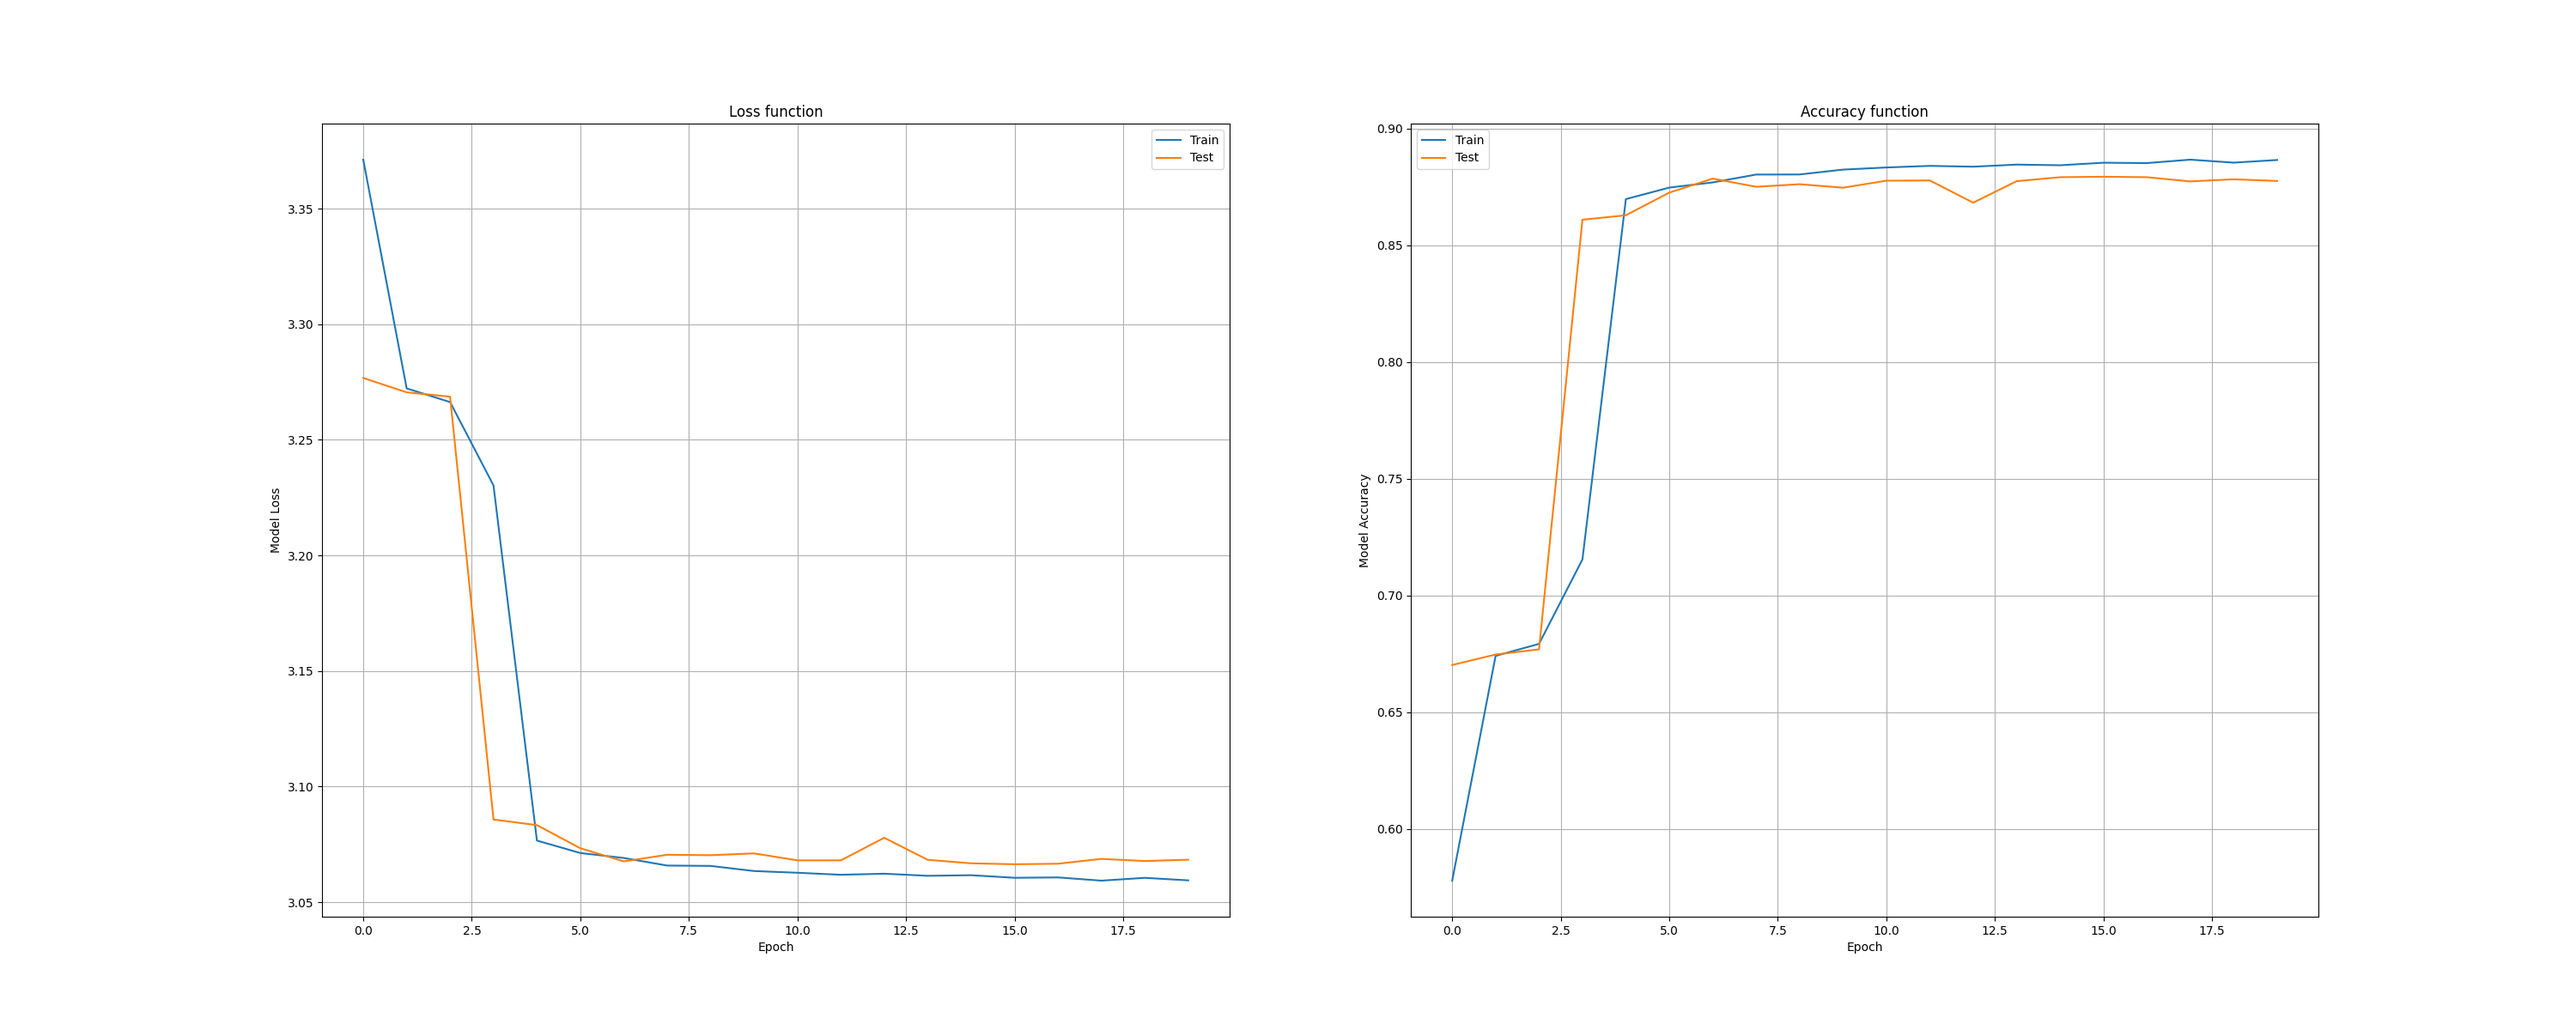
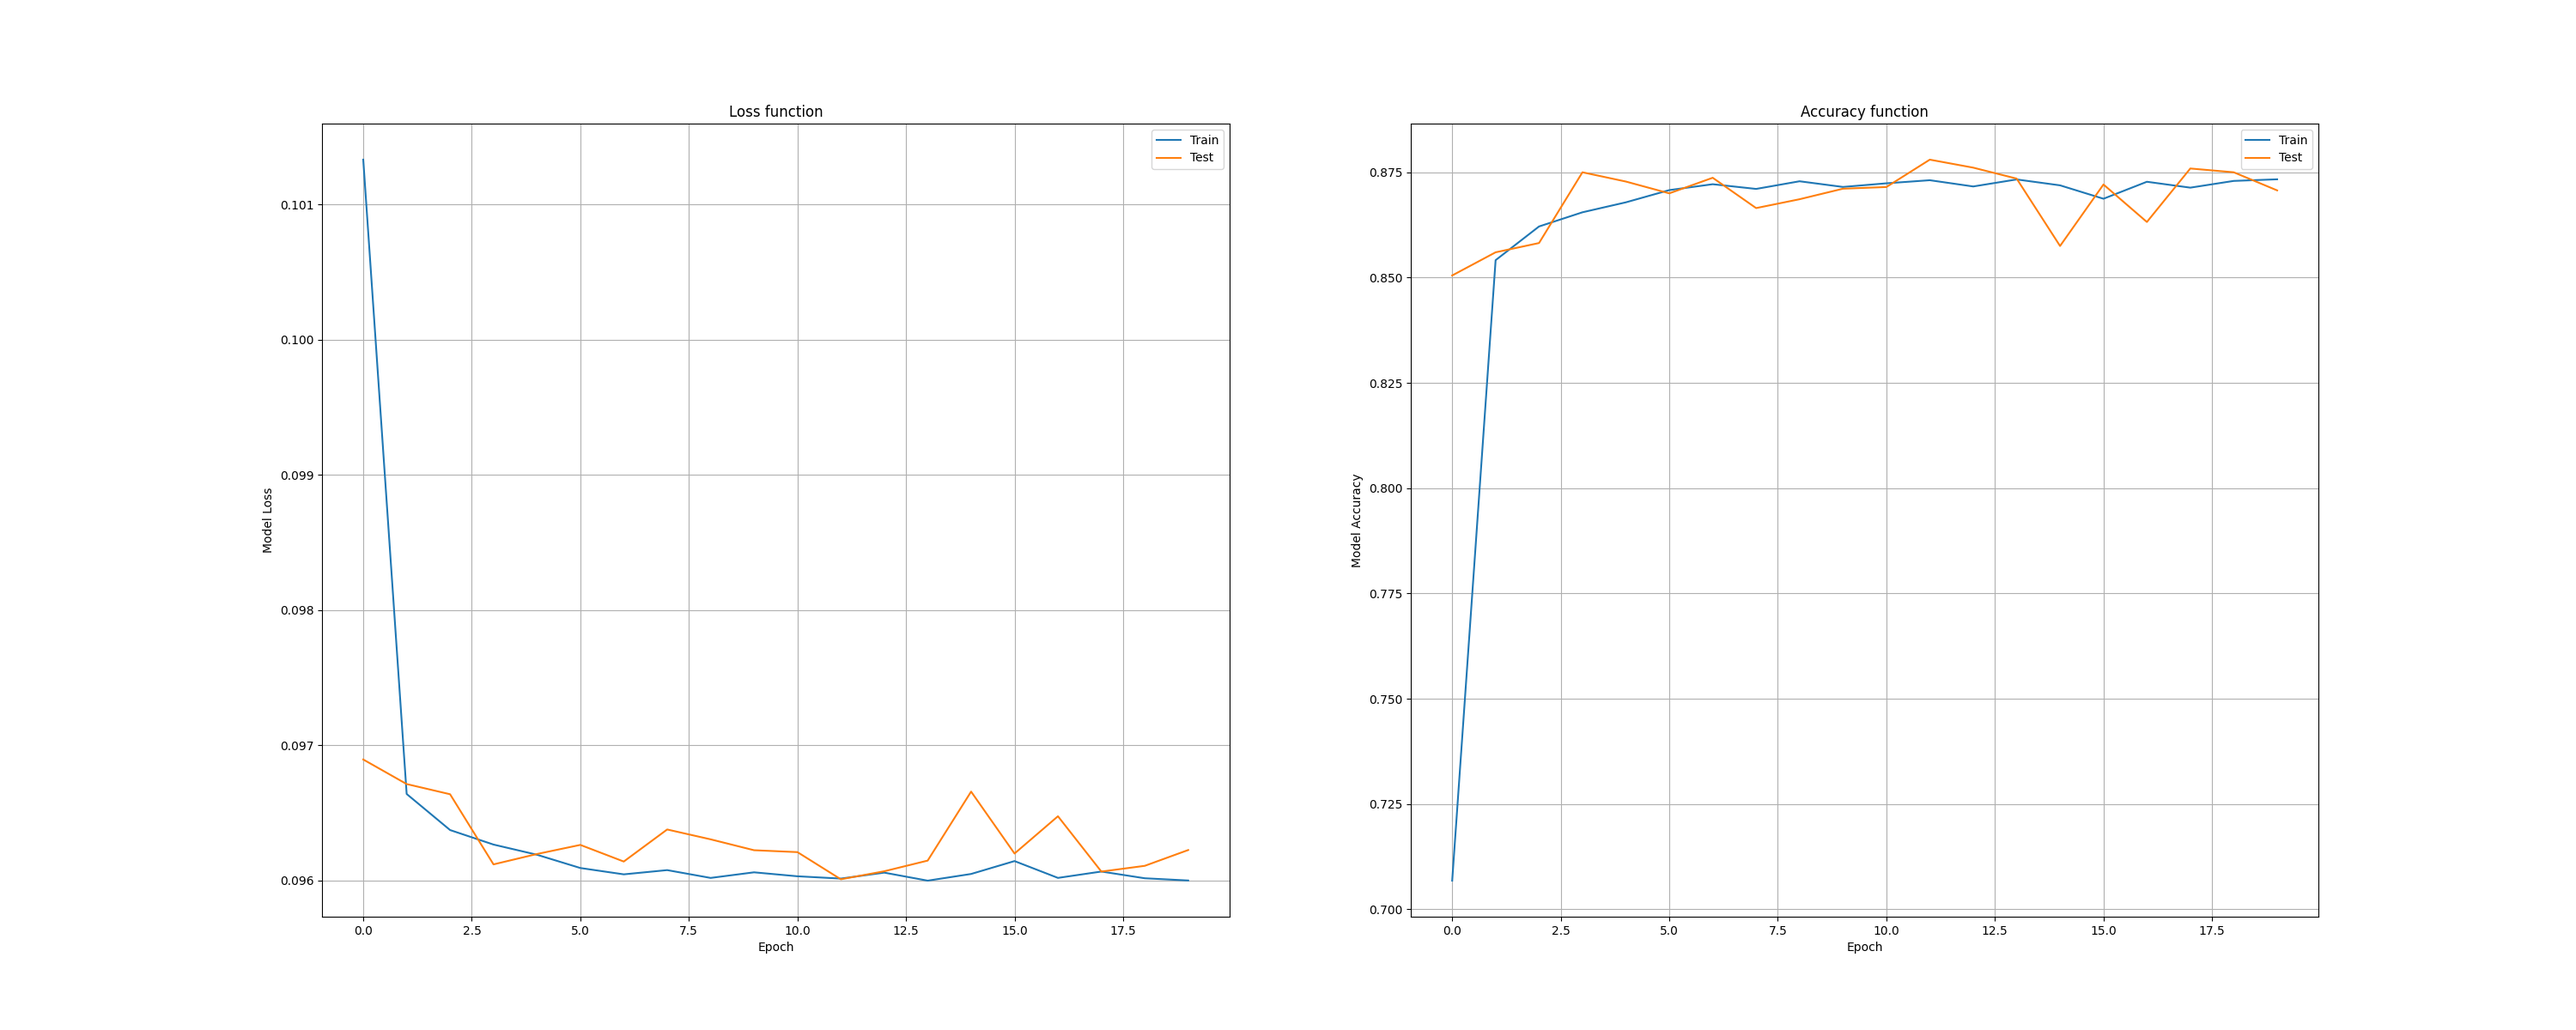
Fix DNN and started CNN

diff --git a/Exercise2/DNN_MINST.py b/Exercise2/DNN_MINST.py
@@ -10,12 +10,10 @@ HIDDEN_SIZES = [400, 100, 50]
 CAT = 10
 IMG_ROWS, IMG_COLS = 28, 28
 
-
 """
 DNN FOR IMAGE RECOGNITION
 """
 
-# TODO fix the normalization of the loss function and consider inserting the dropout in the NN
 
 class DNN(nn.Module):
     def __init__(self, input_size=IMG_ROWS * IMG_COLS, hidden_sizes=None, output_size=CAT):
@@ -28,22 +26,27 @@ class DNN(nn.Module):
         self.fc2 = nn.Linear(hidden_sizes[0], hidden_sizes[1])
         self.fc3 = nn.Linear(hidden_sizes[1], hidden_sizes[2])
         self.output = nn.Linear(hidden_sizes[2], output_size)
+        # self.dropout = nn.Dropout(p=dropout_prob)
 
     def forward(self, x):
-        x = x.view(-1, IMG_ROWS * IMG_COLS) #This flattens the array
+        x = x.view(-1, IMG_ROWS * IMG_COLS)  # This flattens the array
         x = self.relu(self.fc1(x))
+        # x = self.dropout(x)
         x = self.relu(self.fc2(x))
+        # x = self.dropout(x)
         x = self.relu(self.fc3(x))
+        # x = self.dropout(x)
         x = self.softmax(x)
 
         return x
 
 
-def train_model(model, train_loader, test_loader, criterion, optimizer, epochs):
+def train_and_test_model(model, train_loader, test_loader, criterion, optimizer, epochs):
     train_losses = [0 for _ in range(epochs)]
     test_losses = [0 for _ in range(epochs)]
     train_accuracies = [0 for _ in range(epochs)]
     test_accuracies = [0 for _ in range(epochs)]
+    # predicted = []
     for epoch in range(epochs):
         model.train()  # Set the model to training mode
         running_loss = 0.0
@@ -61,7 +64,7 @@ def train_model(model, train_loader, test_loader, criterion, optimizer, epochs):
             loss.backward()  # Backward pass
             optimizer.step()  # Update weights
 
-            running_loss += loss.item() * inputs.size(0)  # Accumulate total loss for this batch
+            running_loss += loss.item()  # Accumulate total loss for this batch
 
         epoch_loss = running_loss / len(train_loader.dataset)  # Average loss for the epoch
         train_losses[epoch] = epoch_loss
@@ -77,8 +80,9 @@ def train_model(model, train_loader, test_loader, criterion, optimizer, epochs):
         with torch.no_grad():  # No need to compute gradients for validation
             for test_inputs, test_targets in test_loader:
                 test_outputs = model(test_inputs)
-                test_loss += criterion(test_outputs, test_targets).item() * test_inputs.size(0)
+                test_loss += criterion(test_outputs, test_targets).item()
                 _, predicted = torch.max(test_outputs.data, 1)  # Get class with highest probability
+                print(predicted)
                 total_test += test_targets.size(0)
                 correct_test += (predicted == test_targets).sum().item()
 
@@ -100,15 +104,16 @@ def main():
     train_dataset = datasets.MNIST(root='./data', train=True, download=True, transform=transform)
     test_dataset = datasets.MNIST(root='./data', train=False, download=True, transform=transform)
 
-    train_loader = torch.utils.data.DataLoader(dataset=train_dataset, batch_size=32, shuffle=True)
-    test_loader = torch.utils.data.DataLoader(dataset=test_dataset, batch_size=32, shuffle=False)
+    train_loader = DataLoader(dataset=train_dataset, batch_size=32, shuffle=True)
+    test_loader = DataLoader(dataset=test_dataset, batch_size=32, shuffle=False)
 
     model = DNN()
 
     criterion = nn.CrossEntropyLoss()
     optimizer = optim.Adam(model.parameters(), lr=0.001)
-    train_losses, test_losses, train_accuracies, test_accuracies = train_model(model, train_loader, test_loader,
-                                                                               criterion, optimizer, EPOCHS)
+    train_losses, test_losses, train_accuracies, test_accuracies = train_and_test_model(model, train_loader,
+                                                                                        test_loader,
+                                                                                        criterion, optimizer, EPOCHS)
     fig, [ax0, ax1] = plt.subplots(1, 2, figsize=(30, 12))
     ax0.plot(train_losses, label='Train Loss')
     ax0.plot(test_losses, label='Test Loss')
@@ -128,6 +133,7 @@ def main():
 
     plt.savefig('DNN_loss_accuracy.png')
     plt.show()
+
 
 if __name__ == '__main__':
     main()

diff --git a/Exercise2/CNN_MINST.py b/Exercise2/CNN_MINST.py
@@ -1,0 +1,12 @@
+from torchvision import datasets, transforms
+import matplotlib.pyplot as plt
+import torch
+from torch.utils.data import DataLoader, TensorDataset
+import torch.nn as nn
+import torch.optim as optim
+
+
+"""
+CNN FOR IMAGE RECOGNITION: USING CONVOLUTIONAL LAYERS
+"""
+
